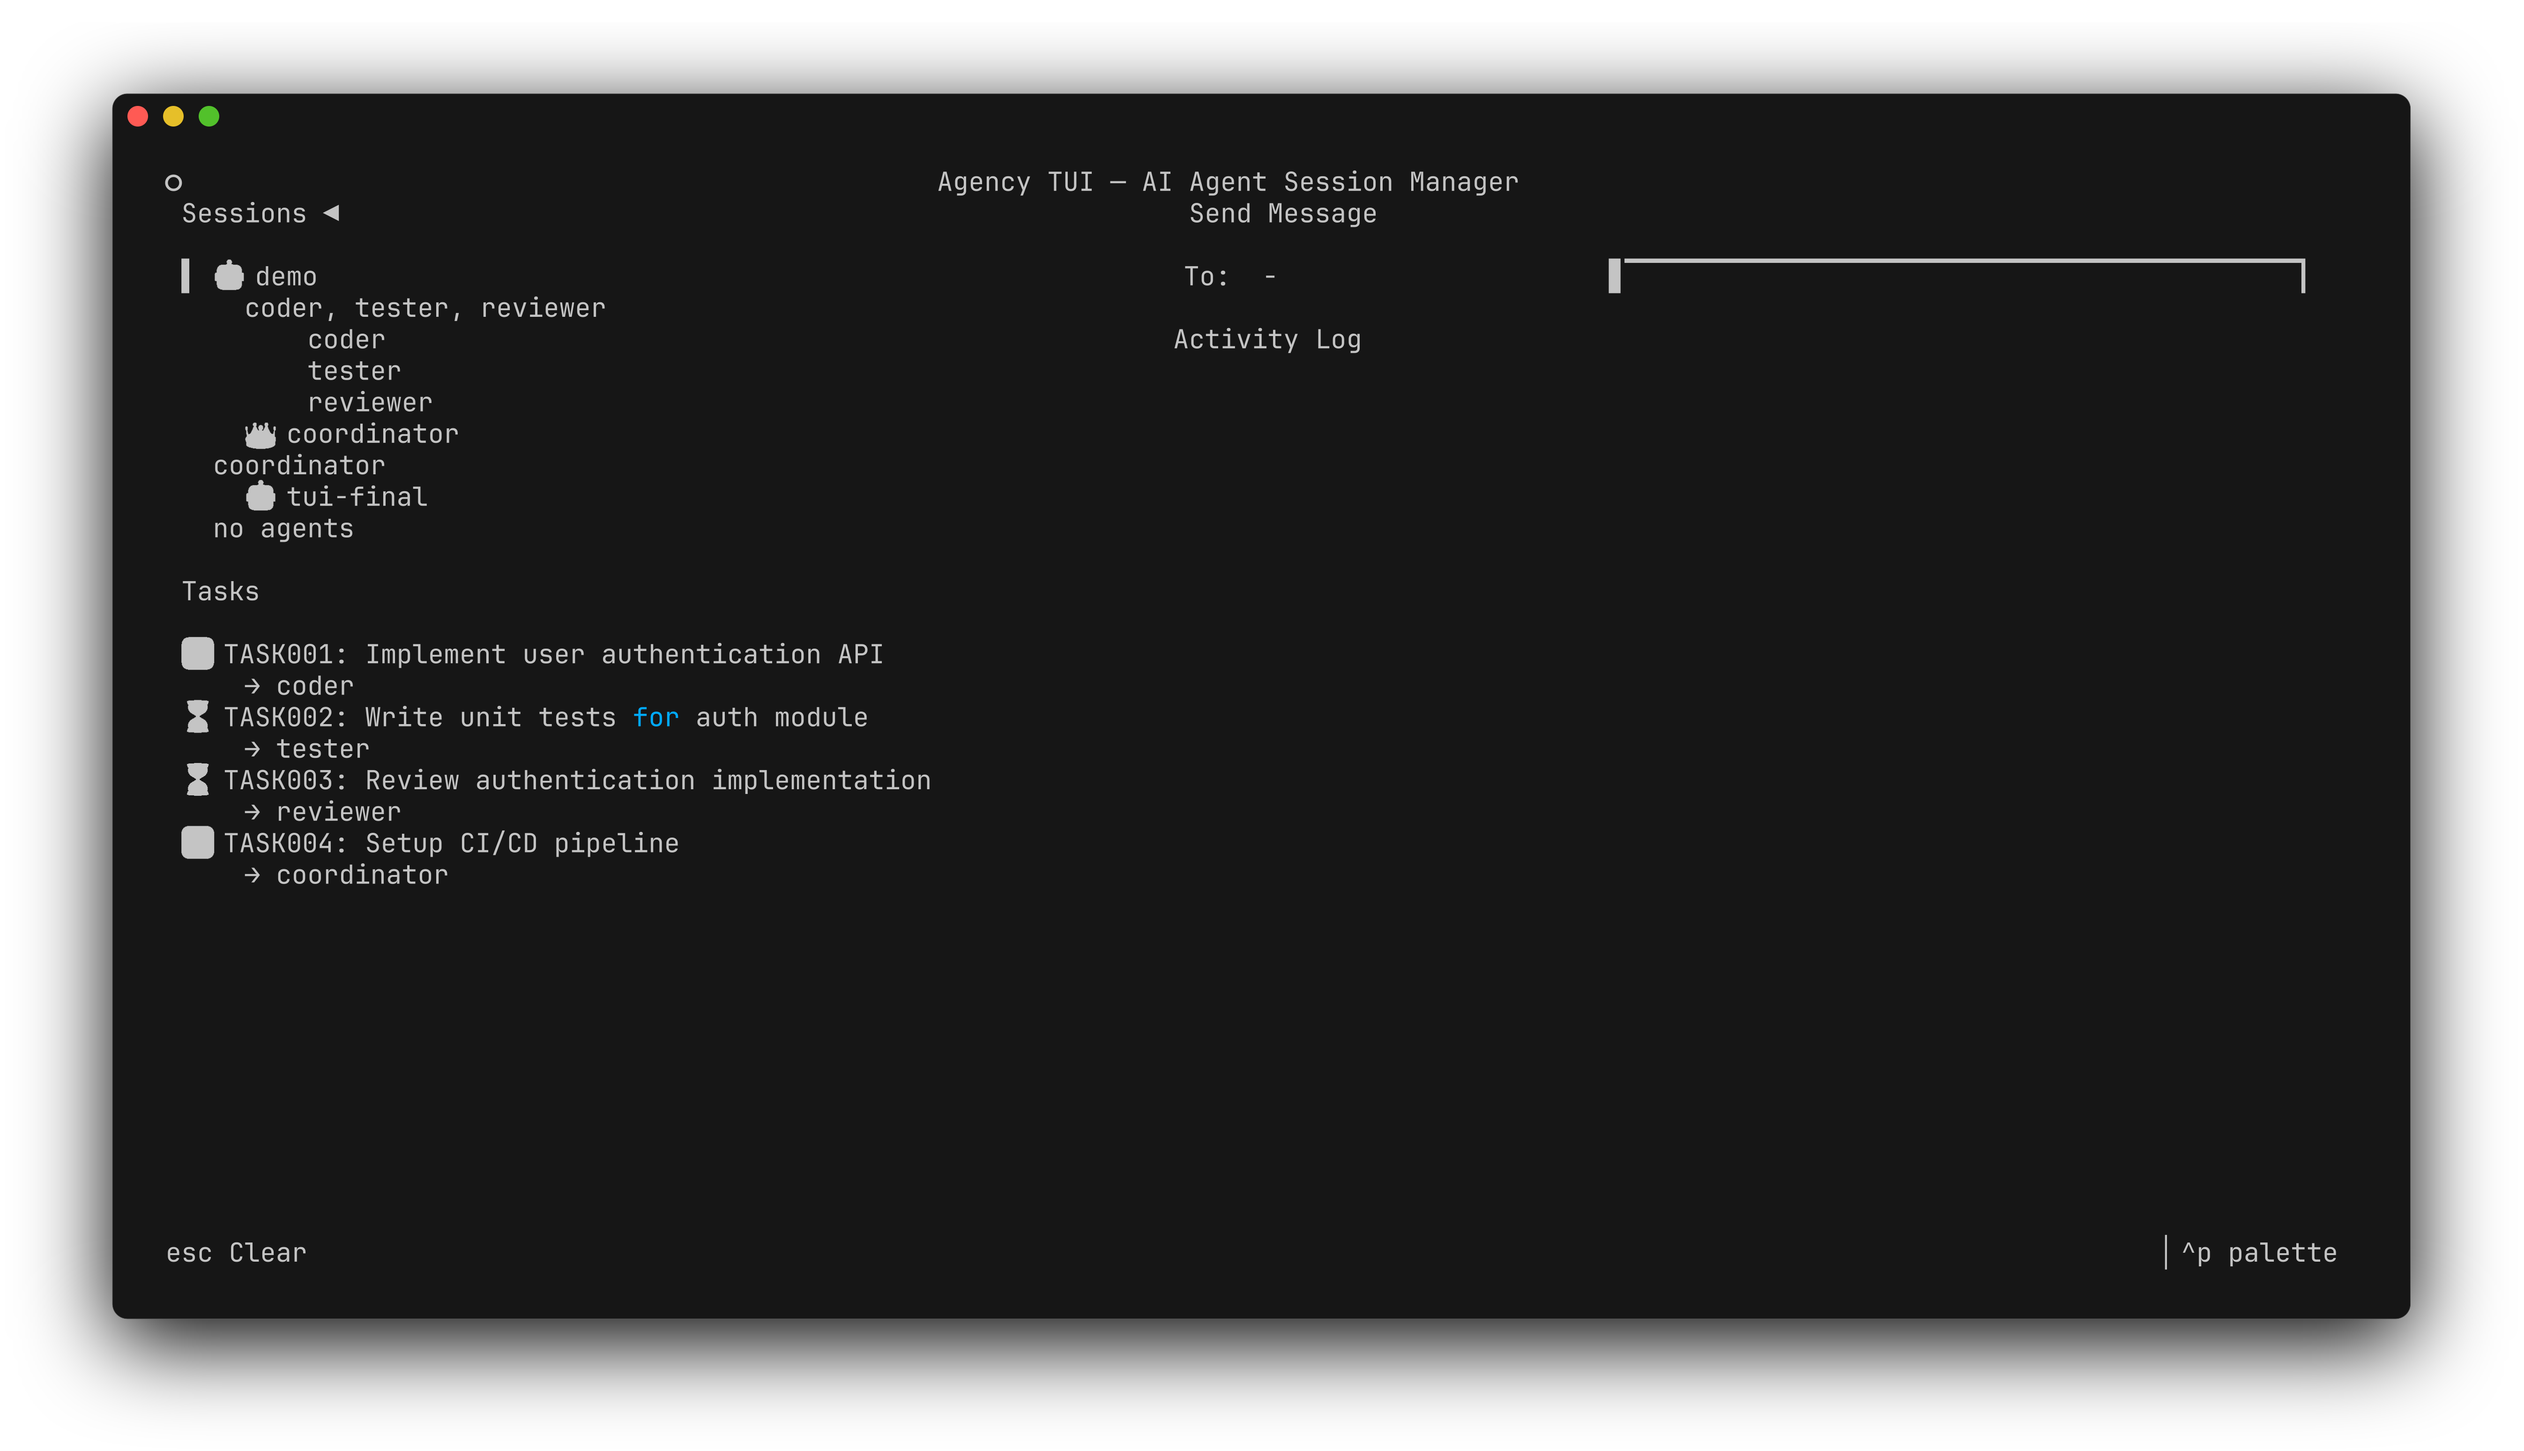
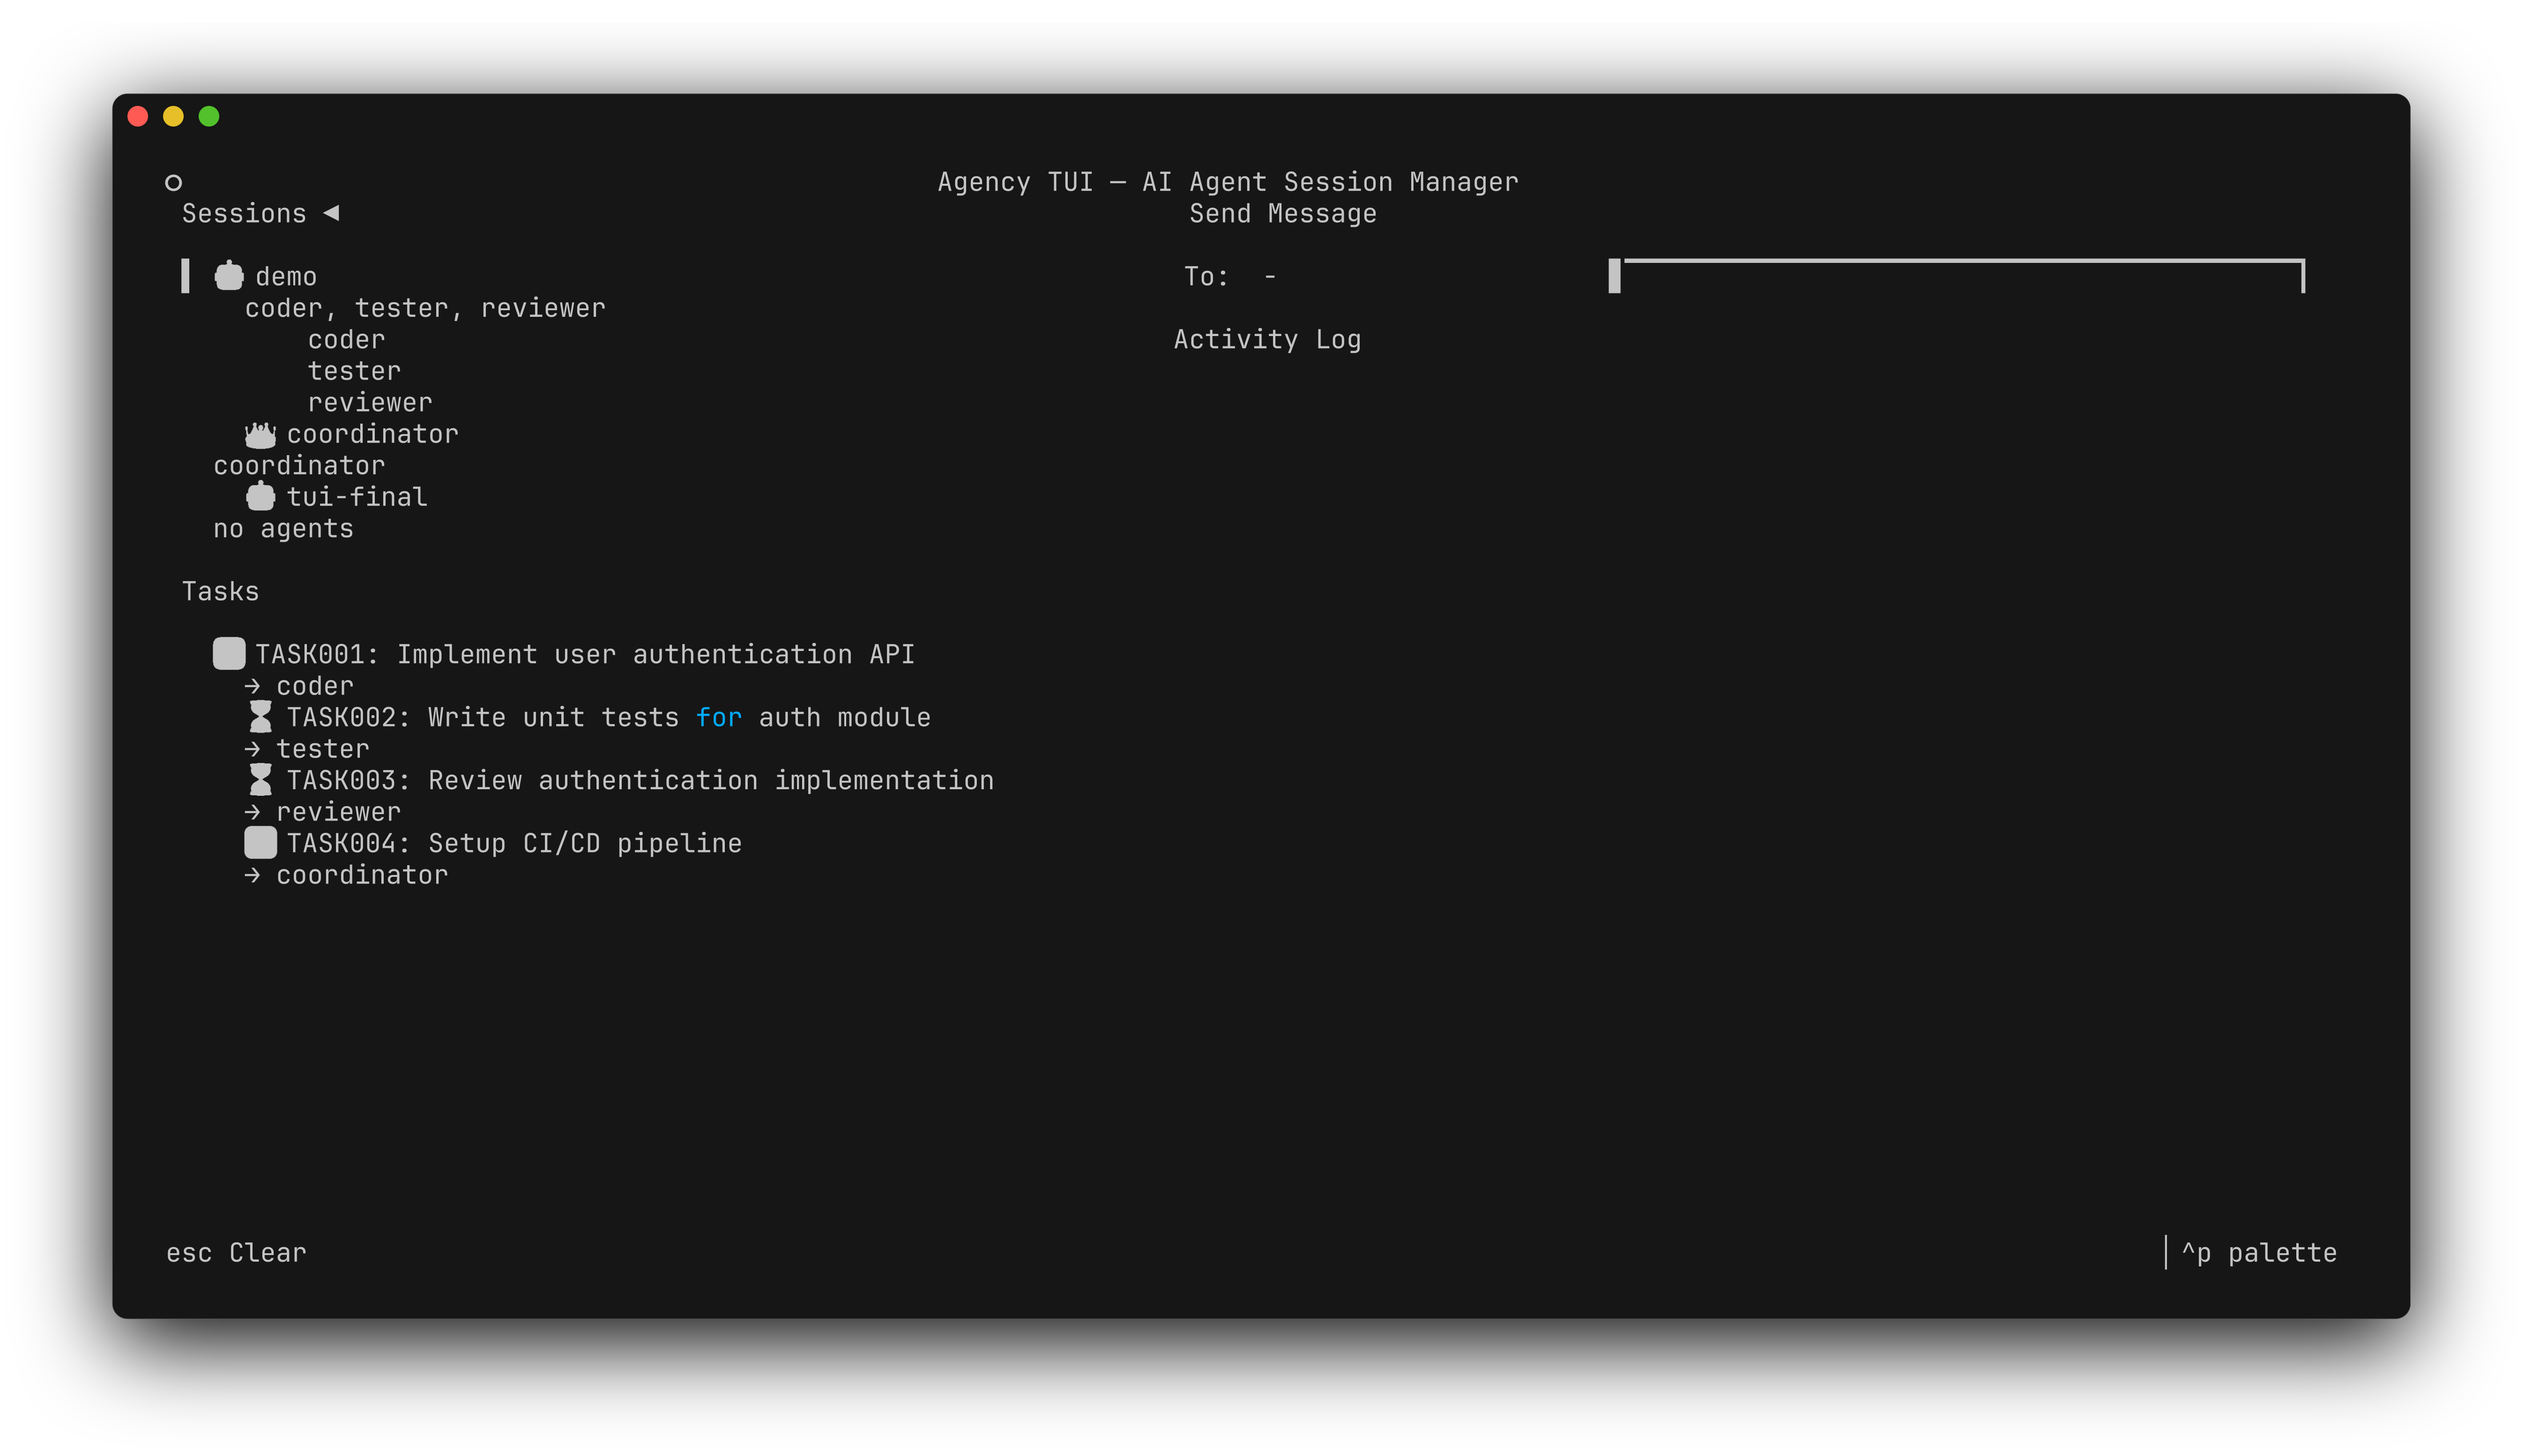
feat(tui): integrate TaskBoard widget properly
- Tasks now display with status icons (🔄, ⏳, ✅)
- Navigate tasks with ↑/↓ when in Tasks panel
- Enter shows task details in activity log
- Visual indicators for selected task

Screenshot: docs/agency-tui-mvp.png

Changed region(s): [[0.0624, 0.4341, 0.3742, 0.5891], [0.2807, 0.5271, 0.3742, 0.5581]]

diff --git a/src/agency/tui/app.py b/src/agency/tui/app.py
@@ -13,7 +13,7 @@ from textual.message import Message
 from textual.timer import Timer
 from textual.widgets import Footer, Header, Input, Static, Log
 
-from agency.tui.widgets.task_board import TaskBoard, TaskInfo
+from agency.tui.widgets.task_board import TaskInfo
 
 
 TMUX_SOCKET = "agency"
@@ -213,6 +213,7 @@ class AgencyTUI(App):
         self._selected_session_index = 0
         self._selected_agent_index: int | None = None
         self._tasks: list[TaskInfo] = []
+        self._selected_task_index = 0
 
     def compose(self) -> ComposeResult:
         yield Header()
@@ -273,7 +274,7 @@ class AgencyTUI(App):
             else:
                 lines.append(f"    {icon} {s.display_name}")
             
-            # Agents line (always show first line)
+            # Agents line
             if is_selected:
                 lines.append(f"    {agents}")
             else:
@@ -301,8 +302,14 @@ class AgencyTUI(App):
             widget.update("[dim]No tasks[/dim]")
             return
         
+        # Reset index if out of bounds
+        if self._selected_task_index >= len(self._tasks):
+            self._selected_task_index = 0
+        
+        is_active = self._current_panel == Panel.TASKS
         lines = []
-        for t in self._tasks:
+        
+        for i, t in enumerate(self._tasks):
             icon = {
                 "pending": "⏳",
                 "in_progress": "🔄",
@@ -310,14 +317,24 @@ class AgencyTUI(App):
                 "failed": "❌"
             }.get(t.status, "❓")
             
-            # Truncate description
             desc = t.description
-            if len(desc) > 40:
-                desc = desc[:37] + "..."
+            if len(desc) > 38:
+                desc = desc[:35] + "..."
             
-            lines.append(f"{icon} [b]{t.task_id}:[/b] {desc}")
+            is_selected = i == self._selected_task_index
+            
+            if is_selected and is_active:
+                lines.append(f"[bold cyan]▌[/bold cyan] {icon} {t.task_id}: {desc}")
+            elif is_selected:
+                lines.append(f"[cyan]  {icon} {t.task_id}: {desc}[/cyan]")
+            else:
+                lines.append(f"    {icon} {t.task_id}: {desc}")
+            
             if t.assigned_to:
-                lines.append(f"    → {t.assigned_to}")
+                if is_selected:
+                    lines.append(f"[cyan]    → {t.assigned_to}[/cyan]")
+                else:
+                    lines.append(f"    [dim]→ {t.assigned_to}[/dim]")
         
         widget.update("\n".join(lines))
 
@@ -337,27 +354,22 @@ class AgencyTUI(App):
         """Update panel headers to show which is active."""
         left_panel = self.query_one("#left-panel", Vertical)
         
-        # Remove all panel classes
         left_panel.remove_class("panel-active")
         left_panel.remove_class("panel-active-tasks")
         
-        # Add active class based on current panel
         if self._current_panel == Panel.SESSIONS:
             left_panel.add_class("panel-active")
         elif self._current_panel == Panel.TASKS:
             left_panel.add_class("panel-active-tasks")
         
-        # Update header text
         sessions_h = self.query_one("#sessions-header", Static)
         tasks_h = self.query_one("#tasks-header", Static)
         main_h = self.query_one("#main-header", Static)
         
-        # Base text
         sessions_text = "[S] Sessions"
         tasks_text = "[T] Tasks"
         main_text = "[M] Send Message"
         
-        # Add markers for active panel
         if self._current_panel == Panel.SESSIONS:
             sessions_text = "[S] Sessions ◀"
         elif self._current_panel == Panel.TASKS:
@@ -400,6 +412,10 @@ class AgencyTUI(App):
                     self._selected_agent_index = 0
             self.refresh_sessions()
             self.update_target()
+        elif self._current_panel == Panel.TASKS:
+            if self._tasks and self._selected_task_index > 0:
+                self._selected_task_index -= 1
+                self.refresh_tasks()
 
     def action_nav_down(self) -> None:
         if self._current_panel == Panel.SESSIONS:
@@ -422,6 +438,10 @@ class AgencyTUI(App):
                     self._selected_session_index += 1
             self.refresh_sessions()
             self.update_target()
+        elif self._current_panel == Panel.TASKS:
+            if self._tasks and self._selected_task_index < len(self._tasks) - 1:
+                self._selected_task_index += 1
+                self.refresh_tasks()
 
     def action_select(self) -> None:
         if self._current_panel == Panel.SESSIONS and self._sessions:
@@ -433,6 +453,16 @@ class AgencyTUI(App):
                     self._selected_agent_index = None
                 self.refresh_sessions()
                 self.update_target()
+        elif self._current_panel == Panel.TASKS and self._tasks:
+            task = self._tasks[self._selected_task_index]
+            log = self.query_one("#activity-log", Log)
+            log.write_line(f"[cyan]Task:[/cyan] {task.task_id}")
+            log.write_line(f"  {task.description}")
+            log.write_line(f"  Status: {task.status}")
+            if task.assigned_to:
+                log.write_line(f"  Assigned: {task.assigned_to}")
+            if task.result:
+                log.write_line(f"  Result: {task.result}")
 
     def action_focus_input(self) -> None:
         self._current_panel = Panel.MAIN
@@ -442,8 +472,10 @@ class AgencyTUI(App):
     def action_clear_selection(self) -> None:
         self._current_panel = Panel.SESSIONS
         self._selected_agent_index = None
+        self._selected_task_index = 0
         self.update_panel_indicators()
         self.refresh_sessions()
+        self.refresh_tasks()
         self.update_target()
 
     def action_attach(self) -> None:
@@ -496,8 +528,8 @@ class AgencyTUI(App):
 [bold]Agency TUI - Keyboard Shortcuts[/bold]
 ─────────────────────────────────────
 [cyan]←/→[/cyan]    Switch panels (Sessions/Tasks/Main)
-[cyan]↑/↓[/cyan]    Navigate sessions & agents
-[cyan]Enter[/cyan]  Select/expand session
+[cyan]↑/↓[/cyan]    Navigate sessions & tasks
+[cyan]Enter[/cyan]  Select/expand session or show task details
 [cyan]a[/cyan]      Attach to session
 [cyan]s[/cyan]      Focus message input
 [cyan]n[/cyan]      New agent

diff --git a/src/agency/tui/widgets/task_board.py b/src/agency/tui/widgets/task_board.py
@@ -48,8 +48,8 @@ class TaskBoard(Widget):
         ("enter", "select", "Select"),
     ]
 
-    def __init__(self) -> None:
-        super().__init__()
+    def __init__(self, id: str | None = None) -> None:
+        super().__init__(id=id)
         self.tasks: list[TaskInfo] = []
         self._cursor: int = 0
 
